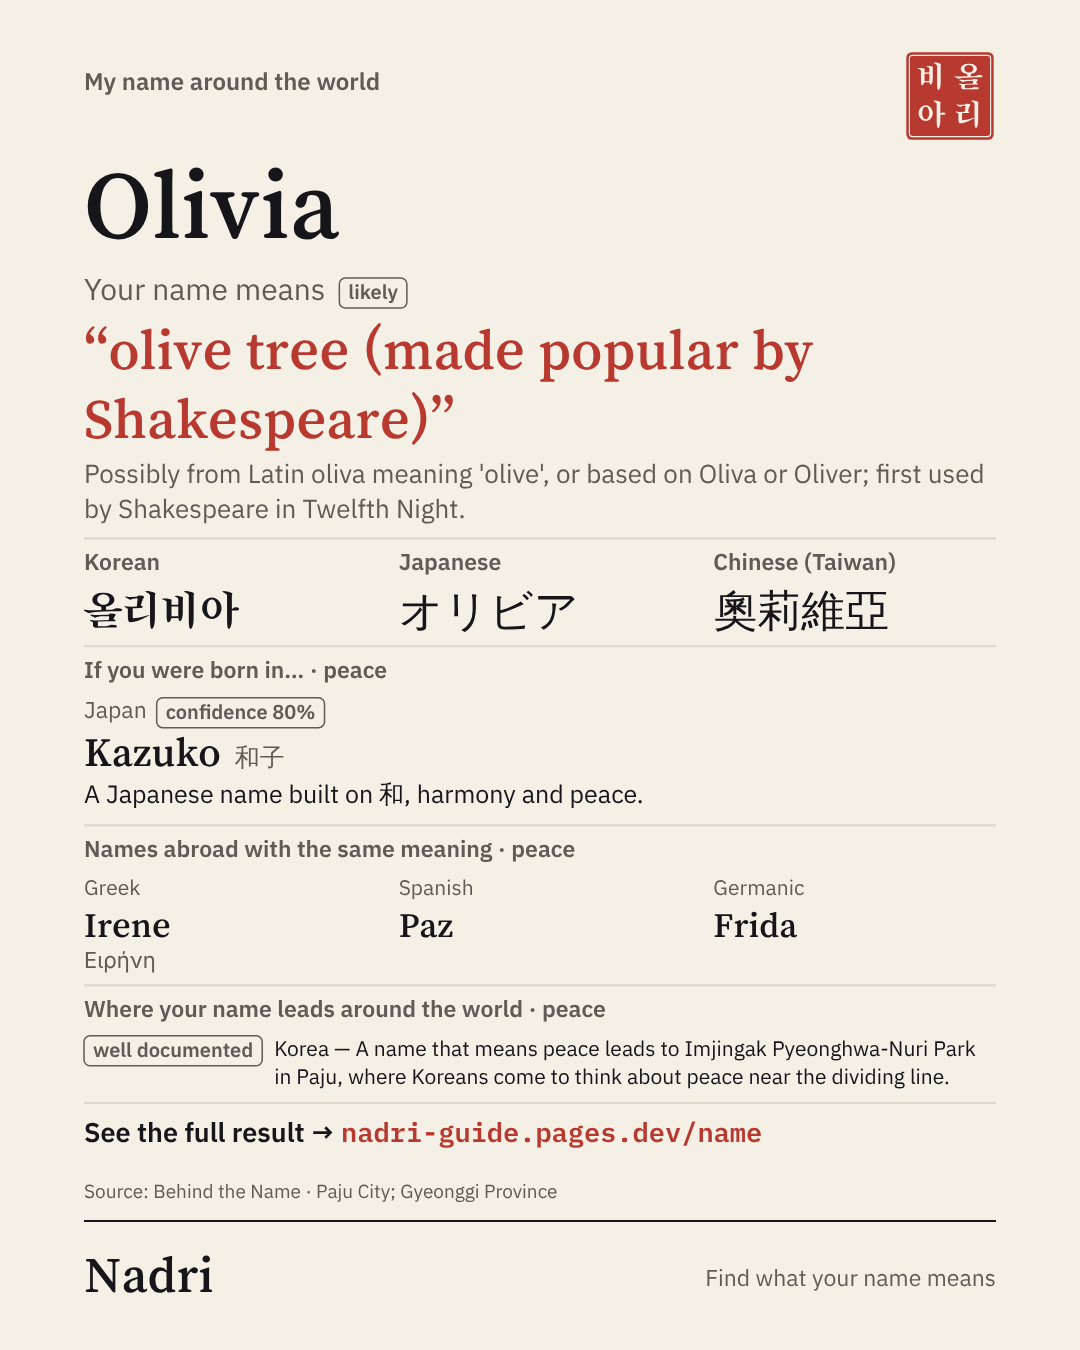
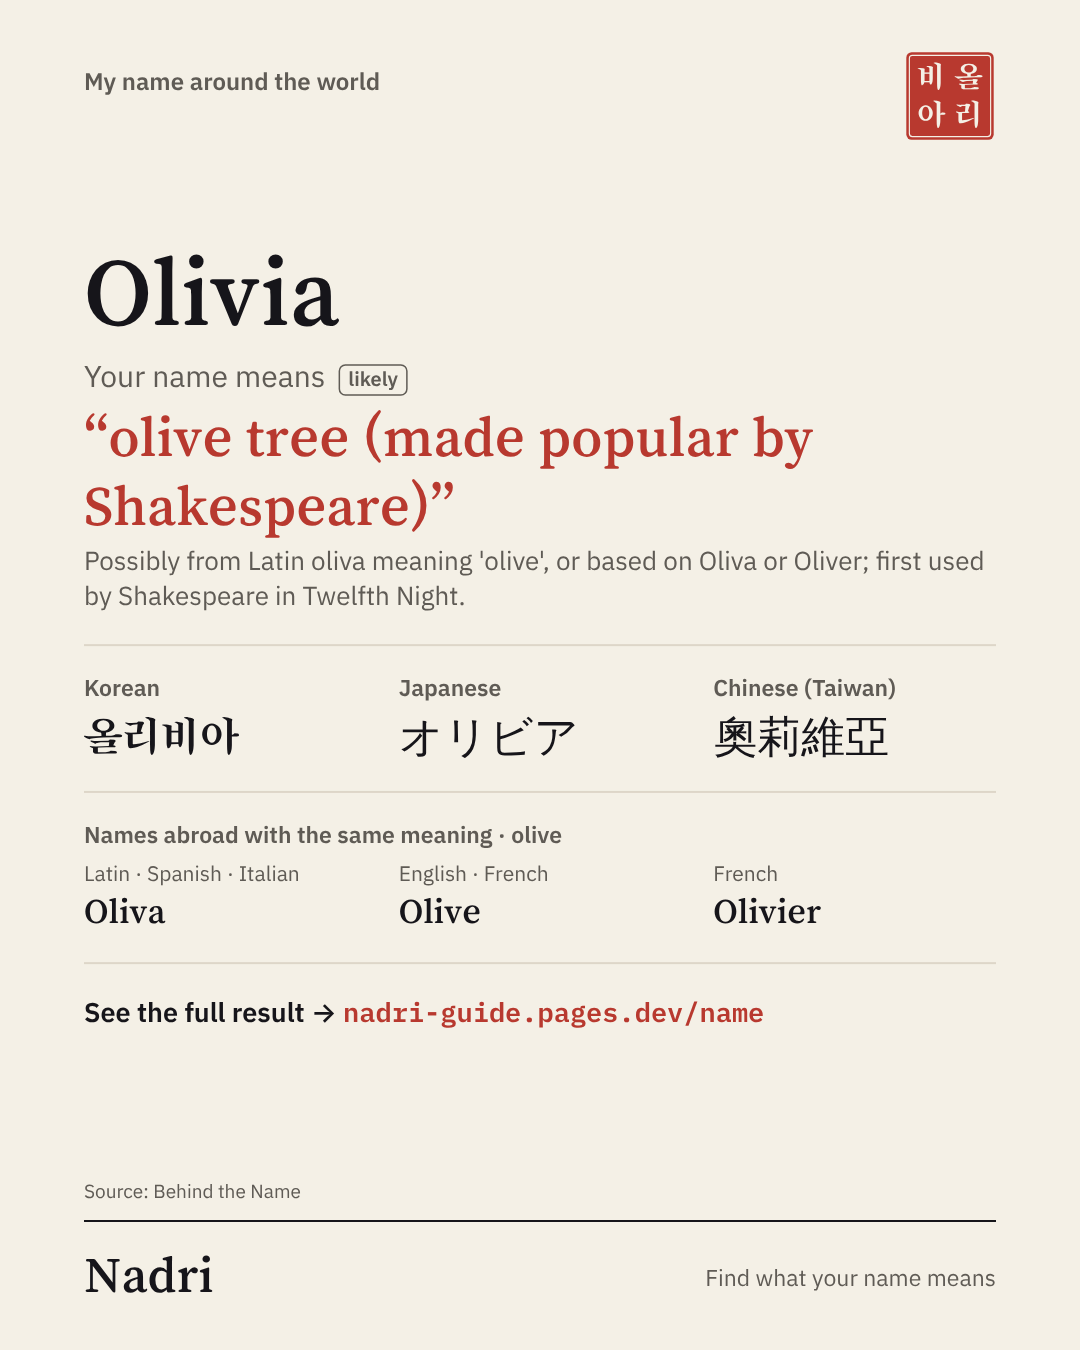
이름 도구: Olivia를 '평화'(상징, 출처 없음)에서 떼고 '올리브' 묶음(Oliva·Olive·Olivier, BtN), 恩 zh 사전 문구, Chloe 클로이; 카드 2장 갱신 (재검토 지적)
Claude-Session: https://claude.ai/code/session_01SuqWfEwhdH8js6VToC8bPd

Changed region(s): [[0.0611, 0.1244, 0.9167, 0.9022], [0.6417, 0.4978, 0.825, 0.56], [0.6417, 0.6222, 0.7639, 0.7156]]

diff --git a/static/name-koread.js b/static/name-koread.js
@@ -13,7 +13,7 @@ window.NADRI_KOREAD = (function () {
     'Binyamin 빈야민|Boulos 불루스|Boutros 부트로스|Bulus 불루스|Butrus 부트루스|Danial 다니알|Daniyal 다니얄|Daoud 다우드|Daud 다우드|Dawood 다우드|Hanna 한나|Hannah 한나|Hawa 하와|Hawwa 하와|Iskandar 이스칸다르|Mariam 마리암|Maryam 마르얌|Mikha\'il 미하일|Nuh 누흐|Yacoub 야쿠브|Yahia 야히아|Yahya 야흐야|Yakub 야쿠브|Yaqoob 야쿠브|Yaqub 야쿠브|Youssef 유세프|Yuhanna 유한나|Yusuf 유수프|' +
     'Chana 하나|Chanah 하나|Chava 하바|Eitan 에이탄|Eithan 에이탄|Elisheva 엘리셰바|Eytan 에이탄|Hana 하나|Margalit 마르갈리트|Matityahu 마티트야후|Mikha\'el 미하엘|Miryam 미리암|Noach 노아흐|Shmuel 슈무엘|Ya\'aqov 야아코브|Yochanan 요하난|Yosef 요세프|Danyal 다니얄|' +
     // concept and born-in names
-    'Stella 스텔라|Aster 아스테르|Tara 타라|Najma 나즈마|Setareh 세타레|Yıldız 이을드즈|Seren 세렌|Zvezdana 즈베즈다나|Hoshiko 호시코|Xing 싱|Hanbyeol 한별|Primo / Prima 프리모 / 프리마|Hajime 하지메|Yuan 위안|Hikmat 히크마트|Bilge 빌게|Chie 지에|Hui 후이|Seulgi 슬기|Lucia 루치아|Lucy 루시|Lucía 루시아|Nur 누르|Svetlana 스베틀라나|Jyoti 조티|Aydın 아이든|Hikari 히카리|Guang 광|Bitna 빛나|Celeste 셀레스테|Ourania 우라니아|Akash 아카시|Samaa 사마|Sora 소라|Tian 톈|Haneul 하늘|Marina 마리나|Kai 카이|Moana 모아나|Derya 데리야|Rio (river) 리오|Umi 우미|Hai 하이|Bada 바다|Flora 플로라|Anthea 안테아|Pua 푸아|Çiçek 치체크|Zahra 자흐라|Blossom 블로섬|Hua 화|Padma 파드마|Kamala 카말라|Nilufar 닐루파르|Ren 렌|Lian 롄|Bahar 바하르|Vesna 베스나|Haru 하루|Chun 춘|Bom 봄|Summer 서머|Natsu 나쓰|Xia 샤|Autumn 오텀|Aki 아키|Qiu 추|Neve 네베|Nieves 니에베스|Yuki 유키|Xue 쉐|Luna 루나|Selene 셀레네|Chandra 찬드라|Qamar 카마르|Aylin 아일린|Yue 웨|Sol 솔|Helios 헬리오스|Surya 수리야|Shams 샴스|Güneş 귀네시|Hinata 히나타|Yang 양|Aurora 아우로라|Dawn 돈|Eos 에오스|Usha 우샤|Fajr 파즈르|Şafak 샤파크|Xiao 샤오|Irene 이레네|Paz 파스|Frida 프리다|Shalom 샬롬|Shanti 샨티|Barış 바르시|Kazu 가즈|Ping 핑|Joy 조이|Felicity 펠리시티|Gioia 조이아|Ananda 아난다|Farah 파라|Sevinç 세빈치|Xin 신|Amanda 어맨다|Priya 프리야|Habiba 하비바|Sevgi 세브기|Lyubov 류보피|Ai 아이|Sarang 사랑|Hope 호프|Esperanza 에스페란사|Elpida 엘피다|Nadezhda 나데즈다|Amal 아말|Umut 우무트|Asha 아샤|Nozomi 노조미|Grace 그레이스|Kripa 크리파|Megumi 메구미|Eunhye 은혜|Bella 벨라|Callista 칼리스타|Jamila 자밀라|Sundari 순다리|Mika 미카|Mei 메이|Areum 아름|Valentin 발렌틴|Isamu 이사무|Yong 융|Clement 클레먼트|Karim 카림|Daya 다야|Hitoshi 히토시|Alethea 알레테아|Vera 베라|Satya 사티아|Sadiq 사디크|Faith 페이스|Makoto 마코토|Zhen 전|Aurelia / Aurelio 아우렐리아 / 아우렐리오|Sona 소나|Jin 진|Jade 제이드|Gemma 젬마|Margarita (pearl) 마르가리타|Lulu (pearl) 룰루|Mutiara (pearl) 무티아라|Ratna 라트나|Tama 다마|Yu 위|Silvia 실비아|Oren (pine) 오렌|Shin 신|Lin 린|Draco 드라코|Drake 드레이크|Ryu 류|Long 룽|Sher 셰르|Babur 바부르|Tora 도라|Hu 후|Rex 렉스|Basil 바실|Leroy 르루아|Malik 말리크|Raja 라자|Wang 왕|Zoe 조이|Vita 비타|Chaim 하임|Hayat 하야트|Hisashi 히사시|Shou 서우|Victoria / Victor 빅토리아 / 빅터|Nicole / Nicholas 니콜 / 니컬러스|Zafar 자파르|Zafer 자페르|Vijay 비자이|Masaru 마사루|Sheng 성|Tahira 타히라|Safiya 사피야|Kiyoshi 기요시|Jie 제|Perpetua 페르페투아|Sarmad 사르마드|Anant 아난트|Anatole 아나톨|Azuma 아즈마|Dong 둥|Magnus 마그누스|Akbar 아크바르|Futoshi 후토시|Da 다|Cosmo 코스모|Melody 멜로디|Shira 시라|Gita 기타|Yin 인|Fumi 후미|Wen 원|William 윌리엄|Liam 리엄|Mamoru 마모루|Noah 노아|Yasushi 야스시|Hokuto 호쿠토|Beichen 베이천|Arthur 아서|Dao 다오|Kazuko 가즈코|Heping 허핑|Santi 산티|Panya 판야|Saeng 생|Sophia 소피아|Hannah 해나|Bandar 반다르|Minato 미나토|Chloe 클로에|Chloris 클로리스|Khadra 하드라|Blerta 블레르타|Midori 미도리|Sui 스이|Qing 칭|Bích 빅|Nalini 날리니|Liên 리엔|Ubon 우본|Yasmin 야스민|Jasmine 재스민|Yasemin 야세민|Jazmín 하스민|Gelsomina 젤소미나|Hasmik 하스미크|Mallika 말리카|Melati 믈라티|İpek 이페크|Reshma 레시마|Tsumugi 쓰무기';
+    'Stella 스텔라|Aster 아스테르|Tara 타라|Najma 나즈마|Setareh 세타레|Yıldız 이을드즈|Seren 세렌|Zvezdana 즈베즈다나|Hoshiko 호시코|Xing 싱|Hanbyeol 한별|Primo / Prima 프리모 / 프리마|Hajime 하지메|Yuan 위안|Hikmat 히크마트|Bilge 빌게|Chie 지에|Hui 후이|Seulgi 슬기|Lucia 루치아|Lucy 루시|Lucía 루시아|Nur 누르|Svetlana 스베틀라나|Jyoti 조티|Aydın 아이든|Hikari 히카리|Guang 광|Bitna 빛나|Celeste 셀레스테|Ourania 우라니아|Akash 아카시|Samaa 사마|Sora 소라|Tian 톈|Haneul 하늘|Marina 마리나|Kai 카이|Moana 모아나|Derya 데리야|Rio (river) 리오|Umi 우미|Hai 하이|Bada 바다|Flora 플로라|Anthea 안테아|Pua 푸아|Çiçek 치체크|Zahra 자흐라|Blossom 블로섬|Hua 화|Padma 파드마|Kamala 카말라|Nilufar 닐루파르|Ren 렌|Lian 롄|Bahar 바하르|Vesna 베스나|Haru 하루|Chun 춘|Bom 봄|Summer 서머|Natsu 나쓰|Xia 샤|Autumn 오텀|Aki 아키|Qiu 추|Neve 네베|Nieves 니에베스|Yuki 유키|Xue 쉐|Luna 루나|Selene 셀레네|Chandra 찬드라|Qamar 카마르|Aylin 아일린|Yue 웨|Sol 솔|Helios 헬리오스|Surya 수리야|Shams 샴스|Güneş 귀네시|Hinata 히나타|Yang 양|Aurora 아우로라|Dawn 돈|Eos 에오스|Usha 우샤|Fajr 파즈르|Şafak 샤파크|Xiao 샤오|Irene 이레네|Paz 파스|Frida 프리다|Shalom 샬롬|Shanti 샨티|Barış 바르시|Kazu 가즈|Ping 핑|Joy 조이|Felicity 펠리시티|Gioia 조이아|Ananda 아난다|Farah 파라|Sevinç 세빈치|Xin 신|Amanda 어맨다|Priya 프리야|Habiba 하비바|Sevgi 세브기|Lyubov 류보피|Ai 아이|Sarang 사랑|Hope 호프|Esperanza 에스페란사|Elpida 엘피다|Nadezhda 나데즈다|Amal 아말|Umut 우무트|Asha 아샤|Nozomi 노조미|Grace 그레이스|Kripa 크리파|Megumi 메구미|Eunhye 은혜|Bella 벨라|Callista 칼리스타|Jamila 자밀라|Sundari 순다리|Mika 미카|Mei 메이|Areum 아름|Valentin 발렌틴|Isamu 이사무|Yong 융|Clement 클레먼트|Karim 카림|Daya 다야|Hitoshi 히토시|Alethea 알레테아|Vera 베라|Satya 사티아|Sadiq 사디크|Faith 페이스|Makoto 마코토|Zhen 전|Aurelia / Aurelio 아우렐리아 / 아우렐리오|Sona 소나|Jin 진|Jade 제이드|Gemma 젬마|Margarita (pearl) 마르가리타|Lulu (pearl) 룰루|Mutiara (pearl) 무티아라|Ratna 라트나|Tama 다마|Yu 위|Silvia 실비아|Oren (pine) 오렌|Shin 신|Lin 린|Draco 드라코|Drake 드레이크|Ryu 류|Long 룽|Sher 셰르|Babur 바부르|Tora 도라|Hu 후|Rex 렉스|Basil 바실|Leroy 르루아|Malik 말리크|Raja 라자|Wang 왕|Zoe 조이|Vita 비타|Chaim 하임|Hayat 하야트|Hisashi 히사시|Shou 서우|Victoria / Victor 빅토리아 / 빅터|Nicole / Nicholas 니콜 / 니컬러스|Zafar 자파르|Zafer 자페르|Vijay 비자이|Masaru 마사루|Sheng 성|Tahira 타히라|Safiya 사피야|Kiyoshi 기요시|Jie 제|Perpetua 페르페투아|Sarmad 사르마드|Anant 아난트|Anatole 아나톨|Azuma 아즈마|Dong 둥|Magnus 마그누스|Akbar 아크바르|Futoshi 후토시|Da 다|Cosmo 코스모|Melody 멜로디|Shira 시라|Gita 기타|Yin 인|Fumi 후미|Wen 원|William 윌리엄|Liam 리엄|Mamoru 마모루|Noah 노아|Yasushi 야스시|Hokuto 호쿠토|Beichen 베이천|Arthur 아서|Dao 다오|Kazuko 가즈코|Heping 허핑|Santi 산티|Panya 판야|Saeng 생|Sophia 소피아|Hannah 해나|Bandar 반다르|Minato 미나토|Chloe 클로이|Chloris 클로리스|Khadra 하드라|Blerta 블레르타|Midori 미도리|Sui 스이|Qing 칭|Bích 빅|Nalini 날리니|Liên 리엔|Ubon 우본|Yasmin 야스민|Jasmine 재스민|Yasemin 야세민|Jazmín 하스민|Gelsomina 젤소미나|Hasmik 하스미크|Mallika 말리카|Melati 믈라티|İpek 이페크|Reshma 레시마|Tsumugi 쓰무기|Oliva 올리바|Olive 올리브|Olivier 올리비에';
   var o = {};
   raw.split('|').forEach(function (p) { var i = p.search(/[\uAC00-\uD7A3]/); if (i > 0) o[p.slice(0, i).trim()] = p.slice(i).trim(); });
   // the same spelling read differently by language

diff --git a/static/name-concepts.js b/static/name-concepts.js
@@ -21,6 +21,9 @@ window.NADRI_CONCEPTS = {
     names: [['Sanskrit / Hindi', 'Padma', 'पद्म'], ['Sanskrit / Hindi', 'Kamala', 'कमला'], ['Persian', 'Nilufar', 'نیلوفر'], ['Japanese', 'Ren', '蓮'], ['Chinese', 'Lian', '蓮'], ['Hindi', 'Nalini', 'नलिनी'], ['Vietnamese', 'Liên', '蓮'], ['Thai', 'Ubon']] },
   /* 2026-11-28: concepts for common Japanese given names (明治安田 2025). Names and meanings read on Behind the Name 'meaning' searches
      (behindthename.com/names/meaning/harbour, green, jasmine, silk), saved in wondu-archive raw-from-scratchpad/names-2026-11-28/btn/. */
+  /* Olivia: Behind the Name gives 'olive' (Latin oliva); the link to 'peace' was a symbol, not the name's meaning (review 2026-11-28). */
+  olive: { ko: '올리브', en: 'olive', ja: 'オリーブ', zh: '橄欖', hanja: '', latin: ['olivia'],
+    names: [['Latin / Spanish / Italian', 'Oliva'], ['English / French', 'Olive'], ['French', 'Olivier']] },
   harbour: { ko: '항구', en: 'harbour', ja: '港(みなと)', zh: '港口', hanja: '湊港', latin: [],
     names: [['Japanese', 'Minato', '湊・港'], ['Arabic', 'Bandar']] },
   green: { ko: '초록', en: 'green', ja: '緑', zh: '綠', hanja: '翠緑碧青', latin: [],
@@ -41,7 +44,7 @@ window.NADRI_CONCEPTS = {
     names: [['Spanish', 'Sol'], ['Greek', 'Helios', 'Ἥλιος'], ['Sanskrit / Hindi', 'Surya', 'सूर्य'], ['Arabic', 'Shams', 'شمس'], ['Turkish', 'Güneş'], ['Japanese', 'Hinata', '陽向'], ['Chinese', 'Yang', '陽']] },
   dawn: { ko: '새벽', en: 'dawn', ja: '暁', zh: '曉', hanja: '曉晨', latin: [],
     names: [['Latin', 'Aurora'], ['English', 'Dawn'], ['Greek', 'Eos', 'Ἠώς'], ['Sanskrit / Hindi', 'Usha', 'उषा'], ['Arabic', 'Fajr', 'فجر'], ['Turkish', 'Şafak'], ['Chinese', 'Xiao', '曉']] },
-  peace: { ko: '평화', en: 'peace', ja: '平和', zh: '和平', hanja: '平和安康靜', latin: ['irene', 'olivia'], chain: 'peace',
+  peace: { ko: '평화', en: 'peace', ja: '平和', zh: '和平', hanja: '平和安康靜', latin: ['irene'], chain: 'peace',
     names: [['Greek', 'Irene', 'Ειρήνη'], ['Spanish', 'Paz'], ['Germanic', 'Frida'], ['Hebrew', 'Shalom', 'שָׁלוֹם'], ['Sanskrit / Hindi', 'Shanti', 'शान्ति'], ['Turkish', 'Barış'], ['Japanese', 'Kazu', '和'], ['Chinese', 'Ping', '平']] },
   joy: { ko: '기쁨', en: 'joy', ja: '喜び', zh: '喜悅', hanja: '喜怡欣樂楽熙', latin: ['joy', 'felix'],
     names: [['English', 'Joy'], ['Latin', 'Felicity'], ['Italian', 'Gioia'], ['Sanskrit / Hindi', 'Ananda', 'आनन्द'], ['Arabic', 'Farah', 'فرح'], ['Turkish', 'Sevinç'], ['Chinese', 'Xin', '欣']] },
@@ -153,4 +156,4 @@ window.NADRI_BORN = {
       ['🇷🇺', { ko: '러시아', en: 'Russia' }, 'Svetlana', 'Светлана', { ko: '\'빛\'에서 온 슬라브 이름.', en: 'A Slavic name from the word for light.' }, 85]
     ] }
 };
-window.NADRI_BORN_OF = { hanja: { '斗': 'dipper', '北': 'dipper', '辰': 'dipper', '星': 'star', '奎': 'star', '智': 'wisdom', '慧': 'wisdom', '叡': 'wisdom', '哲': 'wisdom', '賢': 'wisdom', '知': 'wisdom', '平': 'peace', '和': 'peace', '光': 'light', '明': 'light', '昭': 'light', '炫': 'light', '輝': 'light', '晟': 'light', '炯': 'light' }, latin: { sophia: 'wisdom', stella: 'star', irene: 'peace', olivia: 'peace' }, native: { '별': 'star', '한별': 'star', '슬기': 'wisdom', '빛나': 'light' } };
+window.NADRI_BORN_OF = { hanja: { '斗': 'dipper', '北': 'dipper', '辰': 'dipper', '星': 'star', '奎': 'star', '智': 'wisdom', '慧': 'wisdom', '叡': 'wisdom', '哲': 'wisdom', '賢': 'wisdom', '知': 'wisdom', '平': 'peace', '和': 'peace', '光': 'light', '明': 'light', '昭': 'light', '炫': 'light', '輝': 'light', '晟': 'light', '炯': 'light' }, latin: { sophia: 'wisdom', stella: 'star', irene: 'peace' }, native: { '별': 'star', '한별': 'star', '슬기': 'wisdom', '빛나': 'light' } };

diff --git a/static/name-data.js b/static/name-data.js
@@ -8,7 +8,7 @@
 window.NADRI_NAMES = {
   sophia: { ko: '소피아', ja: 'ソフィア', zh: '蘇菲亞', o: 'Greek', c: 'h', m: { en: 'wisdom', ko: '지혜', ja: '知恵', zh: '智慧' }, w: { ko: '지혜', ja: '知恵(ちえ)', zh: '智慧' }, i: { ko: '지혜 · 슬기', ja: '智恵(ちえ)', zh: '慧' }, ch: 'wisdom' },
   sofia: 'sophia', sophie: 'sophia',
-  olivia: { ko: '올리비아', ja: 'オリビア', zh: '奧莉維亞', o: 'English, from Latin oliva', c: 'm', m: { en: 'olive tree (made popular by Shakespeare)', ko: '올리브나무 (셰익스피어 작품으로 널리 쓰임)', ja: 'オリーブの木(シェイクスピア作品で広まった)', zh: '橄欖樹(因莎士比亞作品而流行)' }, w: { ko: '올리브', ja: 'オリーブ', zh: '橄欖' }, ch: 'peace' },
+  olivia: { ko: '올리비아', ja: 'オリビア', zh: '奧莉維亞', o: 'English, from Latin oliva', c: 'm', m: { en: 'olive tree (made popular by Shakespeare)', ko: '올리브나무 (셰익스피어 작품으로 널리 쓰임)', ja: 'オリーブの木(シェイクスピア作品で広まった)', zh: '橄欖樹(因莎士比亞作品而流行)' }, w: { ko: '올리브', ja: 'オリーブ', zh: '橄欖' } },
   emma: { ko: '에마', ja: 'エマ', zh: '艾瑪', o: 'Germanic', c: 'h', m: { en: 'whole, great', ko: '온전한, 위대한', ja: '完全な、偉大な', zh: '完整的、偉大的' }, w: { ko: '온전함', ja: '完全', zh: '完整' }, i: { ko: '온', ja: '円(まどか)', zh: '全' } },
   liam: { ko: '리엄', ja: 'リアム', zh: '連恩', o: 'Irish, from William', c: 'h', m: { en: 'will + helmet: a resolute protector', ko: '의지 + 투구: 굳센 수호자', ja: '意志+兜:揺るがない守り手', zh: '意志+頭盔:堅定的守護者' }, w: { ko: '수호', ja: '守護', zh: '守護' }, i: { ko: '수호', ja: '守(まもる)', zh: '守' }, ch: 'guard' },
   william: { ko: '윌리엄', ja: 'ウィリアム', zh: '威廉', o: 'Germanic', c: 'h', m: { en: 'will + helmet: a resolute protector', ko: '의지 + 투구: 굳센 수호자', ja: '意志+兜:揺るがない守り手', zh: '意志+頭盔:堅定的守護者' }, w: { ko: '수호', ja: '守護', zh: '守護' }, i: { ko: '수호', ja: '守(まもる)', zh: '守' }, ch: 'guard' },
@@ -96,7 +96,7 @@ window.NADRI_KANJI_L = {
   '茉': { ko: '', en: 'white jasmine', ja: '茉莉(マツリ)の字' }, '凛': { ko: '', en: 'cold', ja: 'りりしい' },
   '家': { zh: '家人' }, '豪': { zh: '才德出眾' }, '淑': { zh: '善良美好' }, '芬': { zh: '香氣' },
   '品': { ko: '물건', en: 'article, product', zh: '人的德性' }, '妍': { en: 'beautiful', zh: '美好' },
-  '恩': { ko: '은혜', en: 'kindness, mercy', zh: '幫助、情愛' }, '碩': { ko: '클', en: 'great, eminent', zh: '大、學識淵博' }
+  '恩': { ko: '은혜', en: 'kindness, mercy', zh: '他人給的幫助' }, '碩': { ko: '클', en: 'great, eminent', zh: '大、學識淵博' }
 };
 (function () { var K = window.NADRI_KANJI, L = window.NADRI_KANJI_L; Object.keys(L).forEach(function (c) { var e = K[c] || (K[c] = { ko: L[c].ko || '', en: L[c].en || '' }); if (L[c].ja) e.ja = L[c].ja; if (L[c].zh) e.zh = L[c].zh; }); })();
 window.NADRI_KANJI_CHAIN = { '斗': 'star', '辰': 'star', '奎': 'star', '智': 'wisdom', '慧': 'wisdom', '賢': 'wisdom', '哲': 'wisdom', '雪': 'snow', '冬': 'snow', '桜': 'blossom', '櫻': 'blossom', '平': 'peace', '和': 'peace', '星': 'star', '王': 'king', '君': 'king', '宮': 'king', '安': 'rest', '守': 'guard' };
